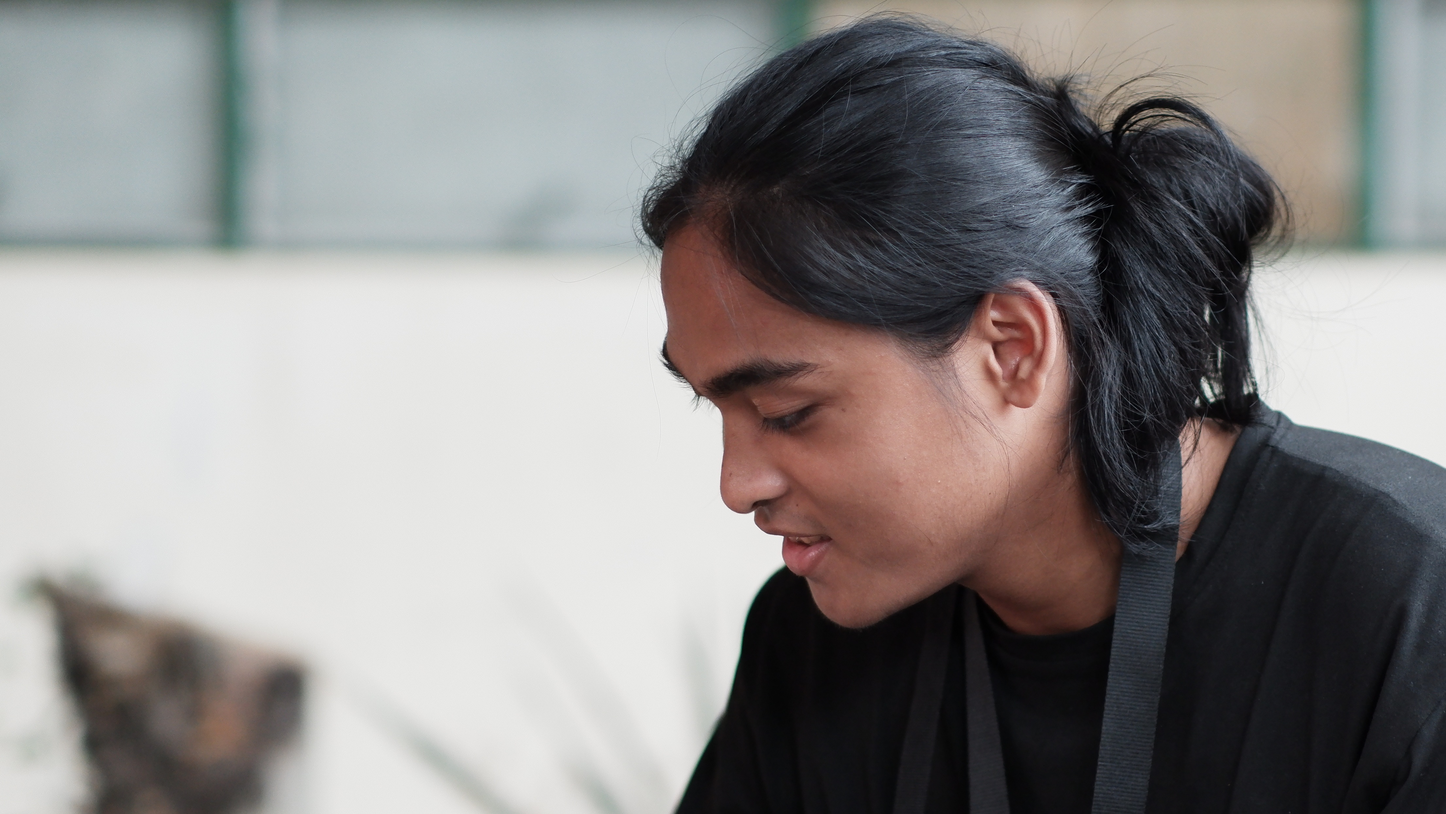
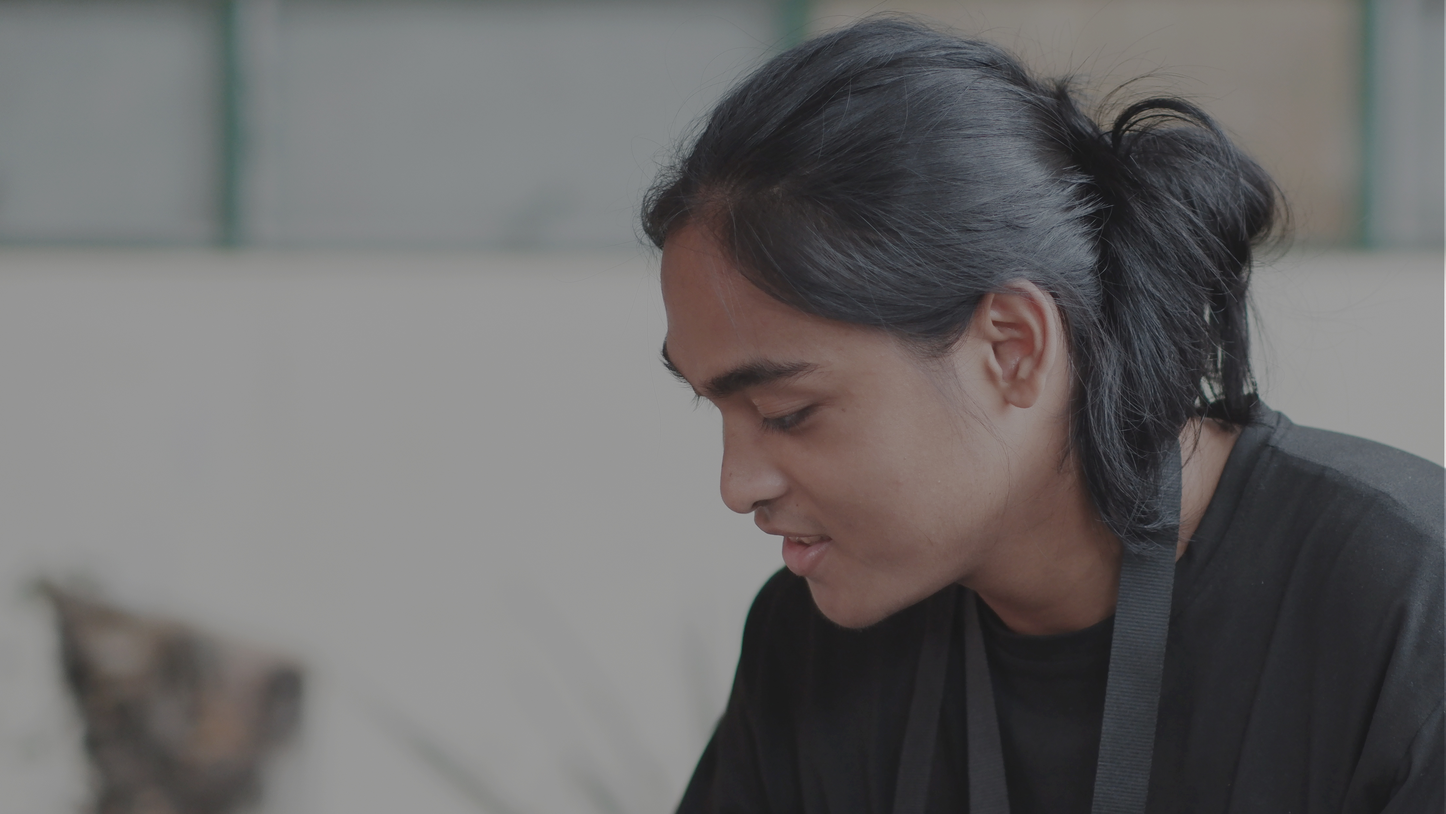
added home page

diff --git a/index.html b/index.html
@@ -1,7 +1,36 @@
 <!DOCTYPE html>
 
-<html>
+<html lang="'en">
     <head>
-        <title>Jean Carlo</title>
+        <title>Jean Carlo Celeste Personal Profile Blog</title>
+        <link rel="stylesheet" href="style.css">
+        <!--Fonts-->
+        <link rel="preconnect" href="https://fonts.googleapis.com">
+        <link rel="preconnect" href="https://fonts.gstatic.com" crossorigin>
+        <link href="https://fonts.googleapis.com/css2?family=Poppins&display=swap" rel="stylesheet">
+        <link href="https://fonts.googleapis.com/css2?family=Pompiere&display=swap" rel="stylesheet">
+        <link href="https://fonts.googleapis.com/css2?family=Yeseva+One&display=swap" rel="stylesheet">
+        <link href="https://fonts.googleapis.com/css2?family=Montserrat&display=swap" rel="stylesheet">
     </head>
+
+    <body style="background-image: url('img/home-bg.jpg'); background-repeat: no-repeat; background-size: cover;">
+        <header>
+            <div class="logo">Jean C.</div>
+            <nav class="nav-bar">
+                <ul>    
+                    <li><a href="">HOME</a></li>
+                    <li><a href="">ABOUT ME</a></li>
+                    <li><a href="">CONTACT</a></li>
+                    <li><a href="">ADDITIONAL INFORMATION</a></li>      
+                </ul>
+            </nav>
+            
+        </header>
+
+        <h1 class="home-title">Hi, <br>I'm Jean Carlo Celeste</h1>
+        <p class="home-desc"> Hello, I'm Jean Carlo Celeste, a passionate web developer and technology enthusiast currently pursuing a Bachelor's degree in Information Technology at Bicol University.
+            Through my portfolio website, I showcase my expertise in front-end development, highlighting projects that demonstrate my skills in HTML, CSS, and JavaScript. 
+            With a focus on creating visually appealing and user-friendly websites, I am dedicated to delivering seamless experiences and contributing to innovative web solutions. 
+            Let's connect and create something amazing together.</p>
+    </body>
 </html>

diff --git a/style.css b/style.css
@@ -1,5 +1,61 @@
 *{
     margin: 0;
     padding: 0;
-    font-family: 'Catamaran', sans-serif;
+    box-sizing: border-box;
+    font-family: 'Montserrat', sans-serif;
+}
+header{
+    width: 100%;
+    height: 80px;
+    display: flex;
+    align-items: center;
+    justify-content: center;
+    padding: 0 20px 0 100px;
+}
+.logo{
+    font-family: 'Pompiere', cursive;
+    margin-right: 50%;
+    font-size: 25px;
+}
+.nav-bar ul{
+    display: flex;
+}
+.nav-bar ul li{
+    list-style: none;
+}
+.nav-bar ul li a{
+    display: block;
+    color: #fff;
+    font-size: 12px;
+    border-radius: 50px;
+    padding: 10px 25px;
+    transition: 0.4s;
+    text-decoration: none;
+    text-shadow: 2px 2px 4px rgba(0, 0, 0, 0.5);
+}
+
+.nav-bar ul li a:hover{
+    color: #000;
+    background:#fefefe;
+    text-shadow: none;
+}
+
+.home-title {
+    font-family: 'Yeseva One', cursive;
+    color: #fff;
+    font-size: 40px;
+    position: absolute;
+    top: 25%;
+    margin: 60px 0 0 80px;
+    text-shadow: 2px 2px 4px rgba(0, 0, 0, 0.5);
+}
+
+.home-desc{
+    color: #fff;
+    font-size: 15px;
+    position: absolute;
+    top: 42%;
+    margin: 60px 0 0 80px;
+    width: 38%;
+    text-align: justify;
 }
